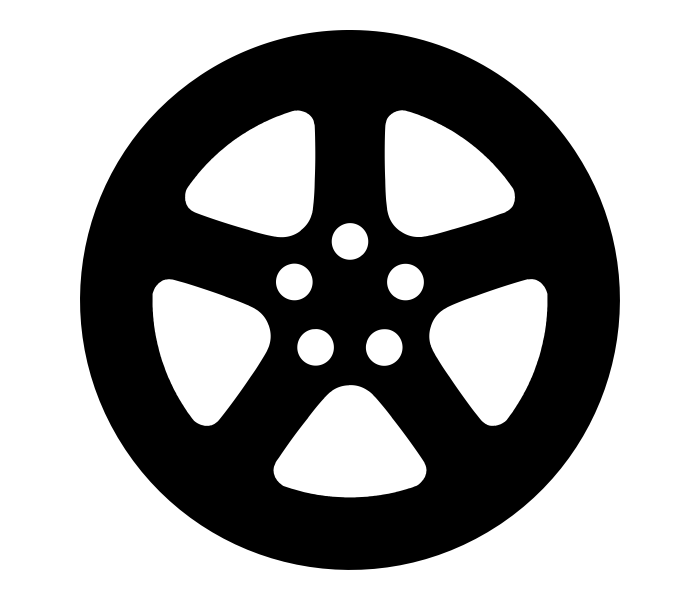
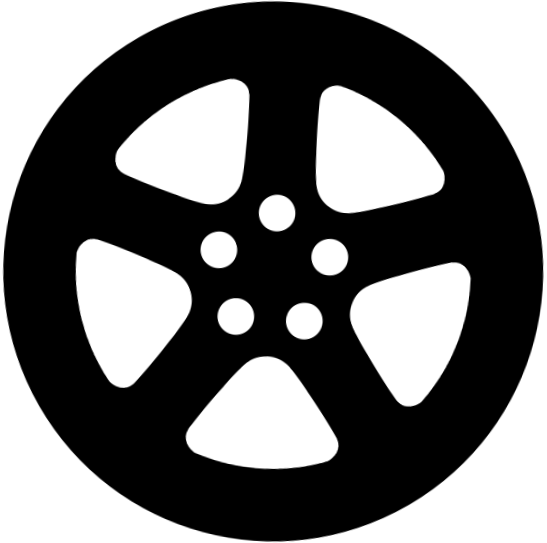
Added wheel rotation

diff --git a/knife_game/data/director.py b/knife_game/data/director.py
@@ -24,6 +24,7 @@ class Director(arcade.Window):
         super().__init__(self.screen_width, self.screen_height, 'Knife Throw')
 
         self.current_state = GameState.MENU
+        self.level = 1
         self.wheel = Wheel()
         self.knife = Knife()
 
@@ -38,6 +39,10 @@ class Director(arcade.Window):
         self.wheel_list = arcade.SpriteList()
 
         self.knife_count = 5
+        # self.new_knife = None
+        for i in range(self.knife_count):
+            self.new_knife = Knife()
+            self.knife_list.append(self.new_knife)
 
         self.create_knife()
 
@@ -54,8 +59,11 @@ class Director(arcade.Window):
         self.knife_list.draw()
         self.wheel_list.draw()
 
+        level_display = f'Level: {self.level}'
+        arcade.draw_text(level_display, self.screen_width * 0.5, self.screen_height * 0.975, (255,255,255), 14,  align="center", anchor_x="center", anchor_y="center")
+
         output = f"Press <space> to shoot"
-        arcade.draw_text(output, self.screen_height * 0.5, self.screen_height * 0.05, (255,255,255), 12,  align="center", anchor_x="center", anchor_y="center",)
+        arcade.draw_text(output, self.screen_height * 0.5, self.screen_height * 0.05, (255,255,255), 12,  align="center", anchor_x="center", anchor_y="center")
 
 
     def on_draw(self):
@@ -72,8 +80,10 @@ class Director(arcade.Window):
 
         if key == arcade.key.SPACE and self.current_state == GameState.GAME_RUNNING:
             self.knife.throw()
+
     def on_update(self, delta_time):
         self.knife.update()
+        self.wheel.update()
 
     def create_wheel(self):
         self.wheel_list.append(self.wheel)

diff --git a/knife_game/data/wheel.py b/knife_game/data/wheel.py
@@ -1,4 +1,5 @@
 import arcade
+import math
 from data import constants
 
 class Wheel(arcade.Sprite):
@@ -9,6 +10,7 @@ class Wheel(arcade.Sprite):
         self.screen_height = constants.SCREEN_HEIGHT
         self.wheel_position = (self.screen_width // 2, self.screen_height * (0.7))
         self.wheel_rotation_speed = 2
+        self.speed = 0
 
         super().__init__(self.image, .5)
 
@@ -16,3 +18,10 @@ class Wheel(arcade.Sprite):
         self.center_y = self.wheel_position[1]
 
         self.original_position = self.center_y
+    
+    def update(self):
+        # # Convert angle in degrees to radians.
+        # angle_rad = math.radians(self.angle)
+
+        self.change_angle = self.wheel_rotation_speed
+        self.angle += self.change_angle
